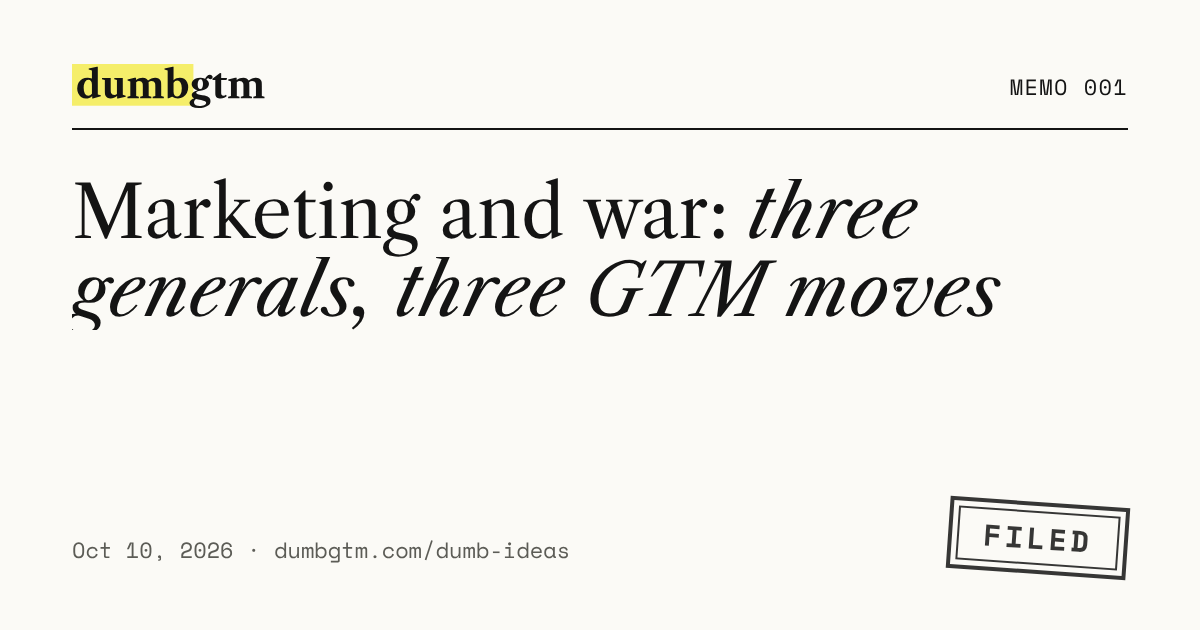
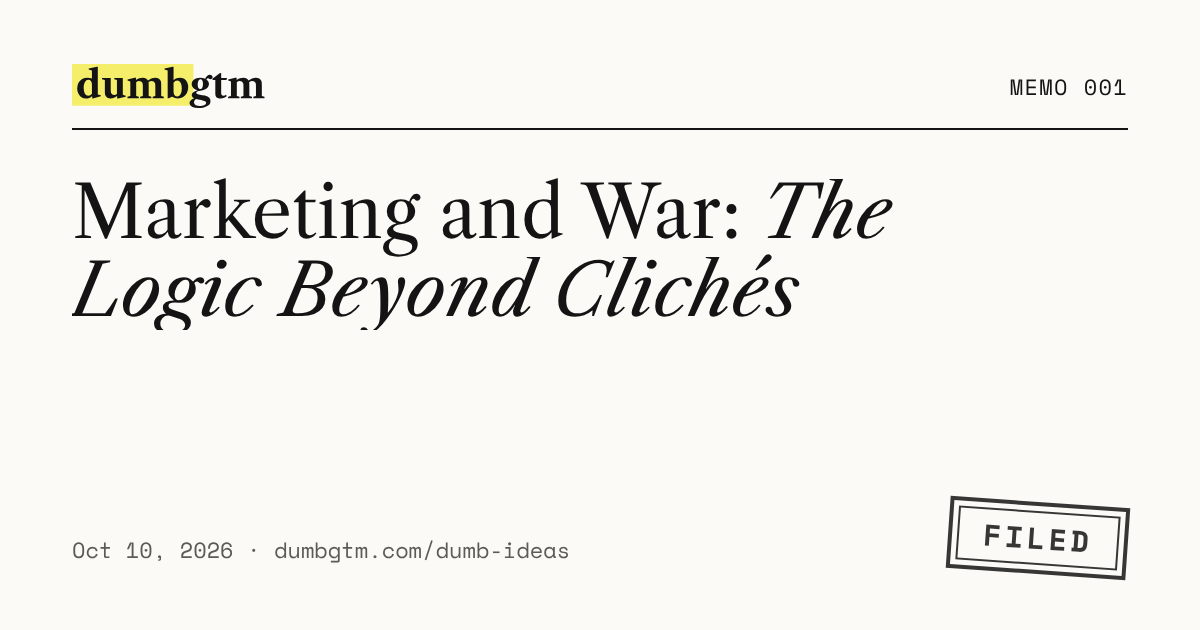
Marketing and War: apply Ishan's edits and voice
New title, his intro, first-person experience, calmer advice in place of punchline closers.

Claude-Session: https://claude.ai/code/session_01FwezxzJE9kzurNiHkqr2ma

Changed region(s): [[0.0617, 0.2714, 0.8325, 0.5127]]

diff --git a/src/content/ideas/marketing-and-war.md b/src/content/ideas/marketing-and-war.md
@@ -1,5 +1,5 @@
 ---
-title: "Marketing and war: three generals, three GTM moves"
+title: "Marketing and War: The Logic Beyond Clichés"
 description: "What Fabius, Operation Uranus and Moltke can teach a GTM team: pick your fights, hit both flanks at once, and give your team the intent instead of a script."
 pubDate: 2026-10-10
 tags: ["strategy", "competition", "sales"]
@@ -30,7 +30,7 @@ sources:
 
 ![A whiteboard with three battles mapped to three GTM moves](/ideas/marketing-and-war/slide-1.png)
 
-"Marketing is war" has been a cliché since at least 1986, when Al Ries and Jack Trout published *Marketing Warfare*. Most of what came after is Sun Tzu quotes on LinkedIn. I still think generals are worth reading, because they spent whole careers on the same problems GTM teams have: limited resources, a bigger opponent, ground that's already taken, and information that always arrives late. So this piece skips the quotes and looks at three specific moves. Fabius, for when you're the smaller company. Operation Uranus, for winning an account with more than one buyer. Moltke, for running a team after the plan stops working.
+"Marketing is war" has been a cliché since at least 1986, when Al Ries and Jack Trout published *Marketing Warfare*. Most of what came after is Sun Tzu quotes on LinkedIn. I still think the great generals of history are worth reading for a wide range of life lessons. One of them, by some stretch of the imagination, can be GTM motions and plays. I think the biggest reason I'm writing this is because I am a student of chess and of military tactics, and I work in GTM. Combining elements from those and deriving analogies is fun to me. Here are three: Fabius, Operation Uranus and Moltke.
 
 ---
 
@@ -46,7 +46,7 @@ In 217 BC, Hannibal had just wiped out two Roman armies, at Trebia and Lake Tras
 
 ![The incumbent's strong ground in the middle, small wins planted around the edges](/ideas/marketing-and-war/slide-3.png)
 
-If you're the smaller company, the incumbent wants a pitched battle. Head keywords they've ranked for over a decade. Enterprise RFPs with 300-line security questionnaires. Feature checklists. The biggest booth at the conference. You'll lose all of those, and you'll feel brave doing it. The Fabian version is to stay on ground that suits you: a segment they underserve, a use case too small for their roadmap, a channel their brand team won't touch. Win those small fights, keep your burn low, and let their size slow them down. Big companies have a lot to defend and a lot of meetings before they can respond. Time can be on the side of the smaller army.
+If you're the smaller company, the incumbent wants a pitched battle. Head keywords they've ranked for over a decade. Enterprise RFPs with 300-line security questionnaires. Feature checklists. The biggest booth at the conference. You'll usually lose those. The Fabian version is to stay on ground that suits you: a segment they underserve, a use case too small for their roadmap, a channel their brand team won't touch. Win those small fights, keep your burn low, and let their size slow them down. Big companies have a lot to defend and a lot of meetings before they can respond, so being patient can work in your favour.
 
 ---
 
@@ -62,7 +62,7 @@ By November 1942, the German 6th Army had spent months fighting street by street
 
 ![An account with two buyers, two arrows arriving the same week, meeting at one shared number](/ideas/marketing-and-war/slide-5.png)
 
-Plenty of products don't have one buyer. Picture a security tool: the CISO owns the risk but can't change the code, and the head of engineering can change the code but doesn't own the risk. Each one is a weak flank, because each feels a gap the current setup doesn't close. Uranus gives you three rules for attacking both. Pick the flanks where each role feels real pain, even if only one of them owns the budget. Move on both in the same window, so one skeptic can't kill the deal before your champion exists. And make the arms meet, with one shared number or meeting they both care about. Two campaigns that never connect are just two campaigns.
+Plenty of products don't have one buyer. Picture a security tool: the CISO owns the risk but can't change the code, and the head of engineering can change the code but doesn't own the risk. Each one is a weak flank, because each feels a gap the current setup doesn't close. Uranus suggests three rules. Pick the flanks where each role feels real pain, even if only one of them owns the budget. Move on both in the same window, so one skeptic can't kill the deal before your champion exists. And make sure the two meet, through one shared number or a meeting they both care about. If they never connect, you're running two separate deals.
 
 ---
 
@@ -78,7 +78,7 @@ Helmuth von Moltke ran the Prussian General Staff from 1857 to 1888. His armies 
 
 ![A crossed-out 40-step playbook next to a short order card with intent, limits and resources](/ideas/marketing-and-war/slide-7.png)
 
-Most GTM plans break in the first week. Buyers don't react the way the persona doc said, a channel underdelivers, a competitor drops prices. The 40-slide plan becomes a [historical document](/blog/frameworks-are-a-hostage-situation). Moltke's version of a plan has three parts. Intent: "20 qualified conversations with mid-market security leads this quarter, so we learn if the compliance angle works." Limits: budget, a discount floor, accounts that are off limits. Resources: people, tools, money. The how belongs to the team, and you review against the intent instead of the plan. This only works if everyone shares the same context on the ICP, the positioning and the numbers. Otherwise you get five people running five strategies.
+Most GTM plans break in the first week or two of running them. I’ve seen this at companies of all sizes, with red tape and without. Buyers react differently than the persona doc said, or a channel underdelivers. The 40-slide plan becomes a [historical document](/blog/frameworks-are-a-hostage-situation). Moltke's version of a plan has three parts. Intent: "20 qualified conversations with security leads this quarter, to test the compliance angle." Limits: budget, a discount floor, accounts that are off limits. Resources: people, tools, money. The team owns the how, and you review against the intent. This only works if everyone shares context on the ICP, positioning and numbers. There is always the risk of getting five people running five strategies, so be mindful.
 
 ---
 
@@ -86,4 +86,4 @@ Most GTM plans break in the first week. Buyers don't react the way the persona d
 
 ![The three moves side by side: pick your fights, both flanks at once, intent over script](/ideas/marketing-and-war/slide-8.png)
 
-If I had to fit this on a sticky note: pick your fights, hit both flanks at once, and give your team the intent instead of the script. Fabius is for the company that's smaller than its competition. Uranus is for the account with more than one buyer. Moltke is for the team that has to keep going after the plan falls apart. The analogy has limits. Buyers aren't the enemy, and a lot of bad outbound comes from teams that take words like "target" and "attack" a little too seriously. The real opponent is usually the status quo. The poet Ennius said Fabius saved Rome by delaying. Good GTM moves often look just as unimpressive at the time.
+If I had to fit this on a sticky note: pick your fights, hit both flanks at once, and give your team the intent instead of the script. Fabius for the smaller company, Uranus for accounts with more than one buyer, Moltke for teams whose plan fell apart. The analogy has limits. Buyers aren't the enemy (nor are competitors in the literal sense), and a lot of bad outbound comes from teams that take words like "target" and "attack" a little too seriously. The real opponent is usually the status quo. The poet Ennius said Fabius saved Rome by delaying. I'd keep that in mind the next time a slower, less exciting plan gets dismissed in a meeting.
